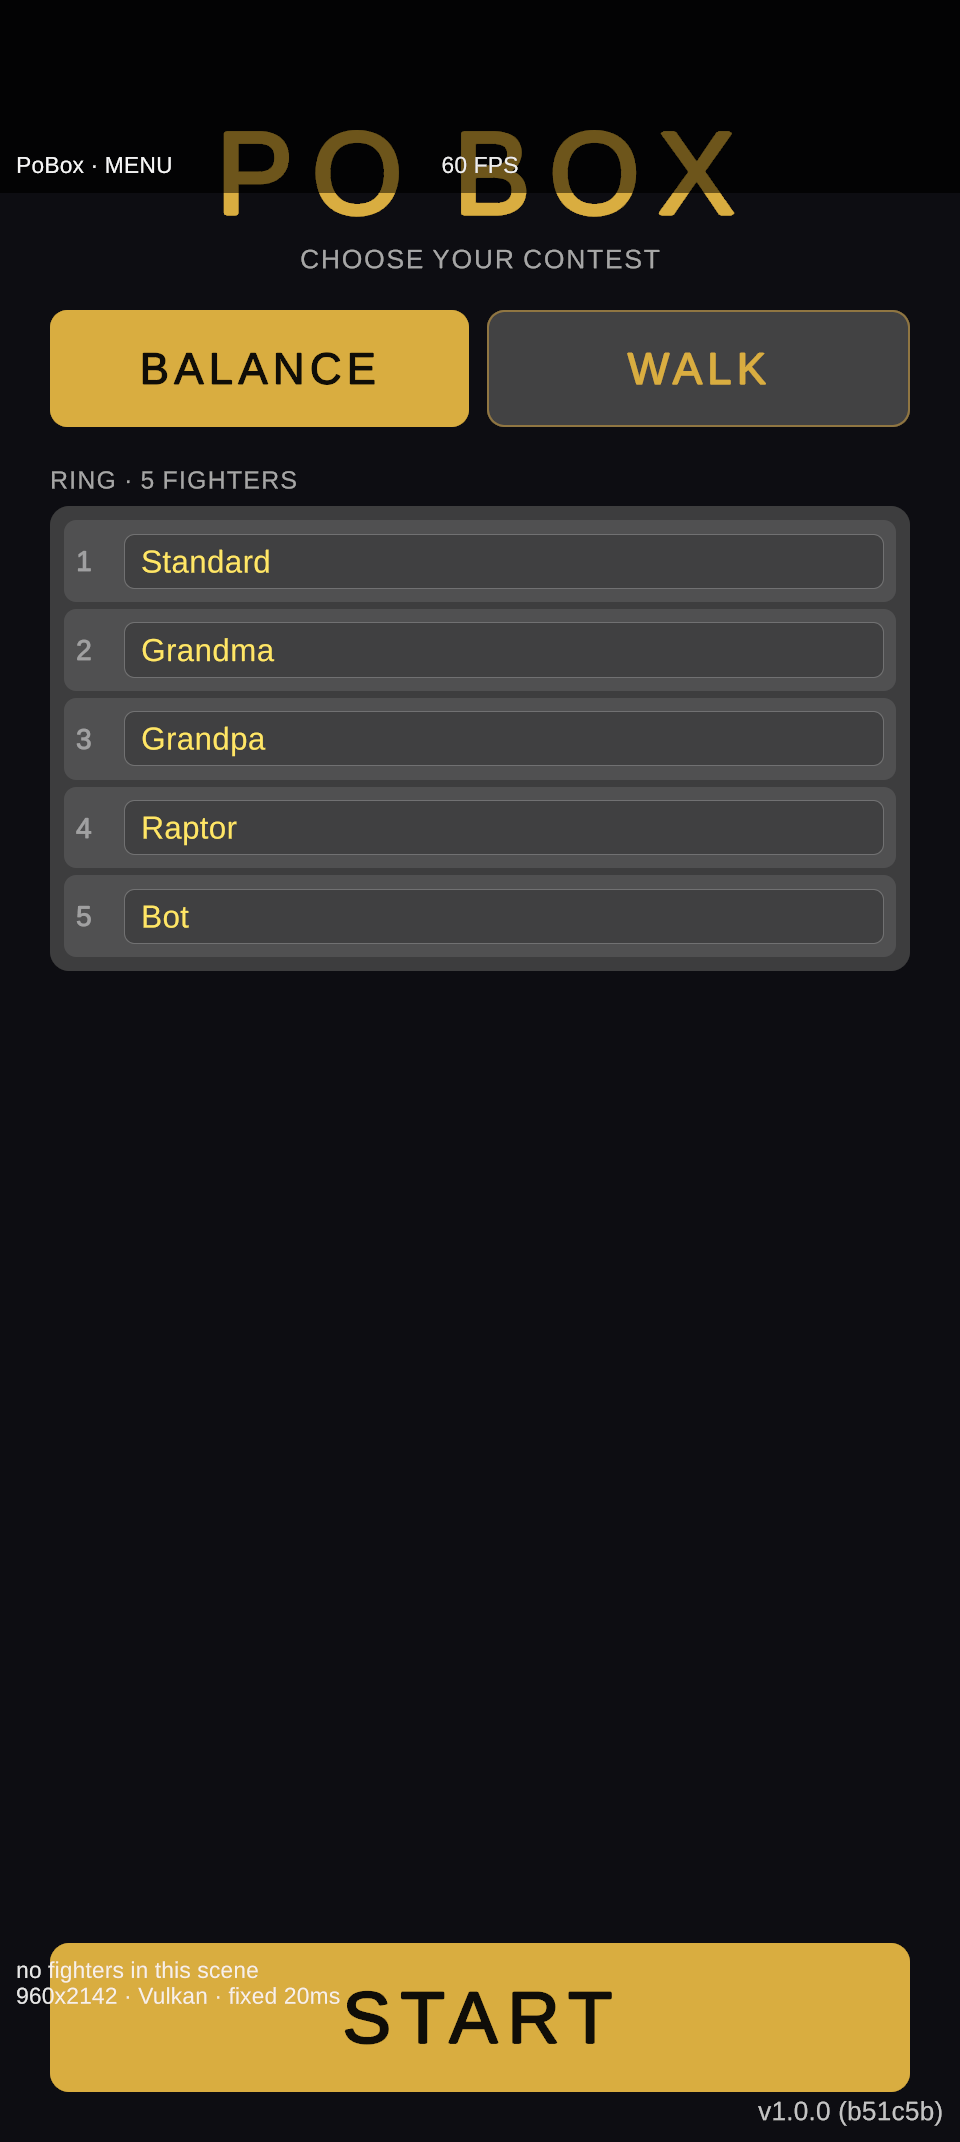
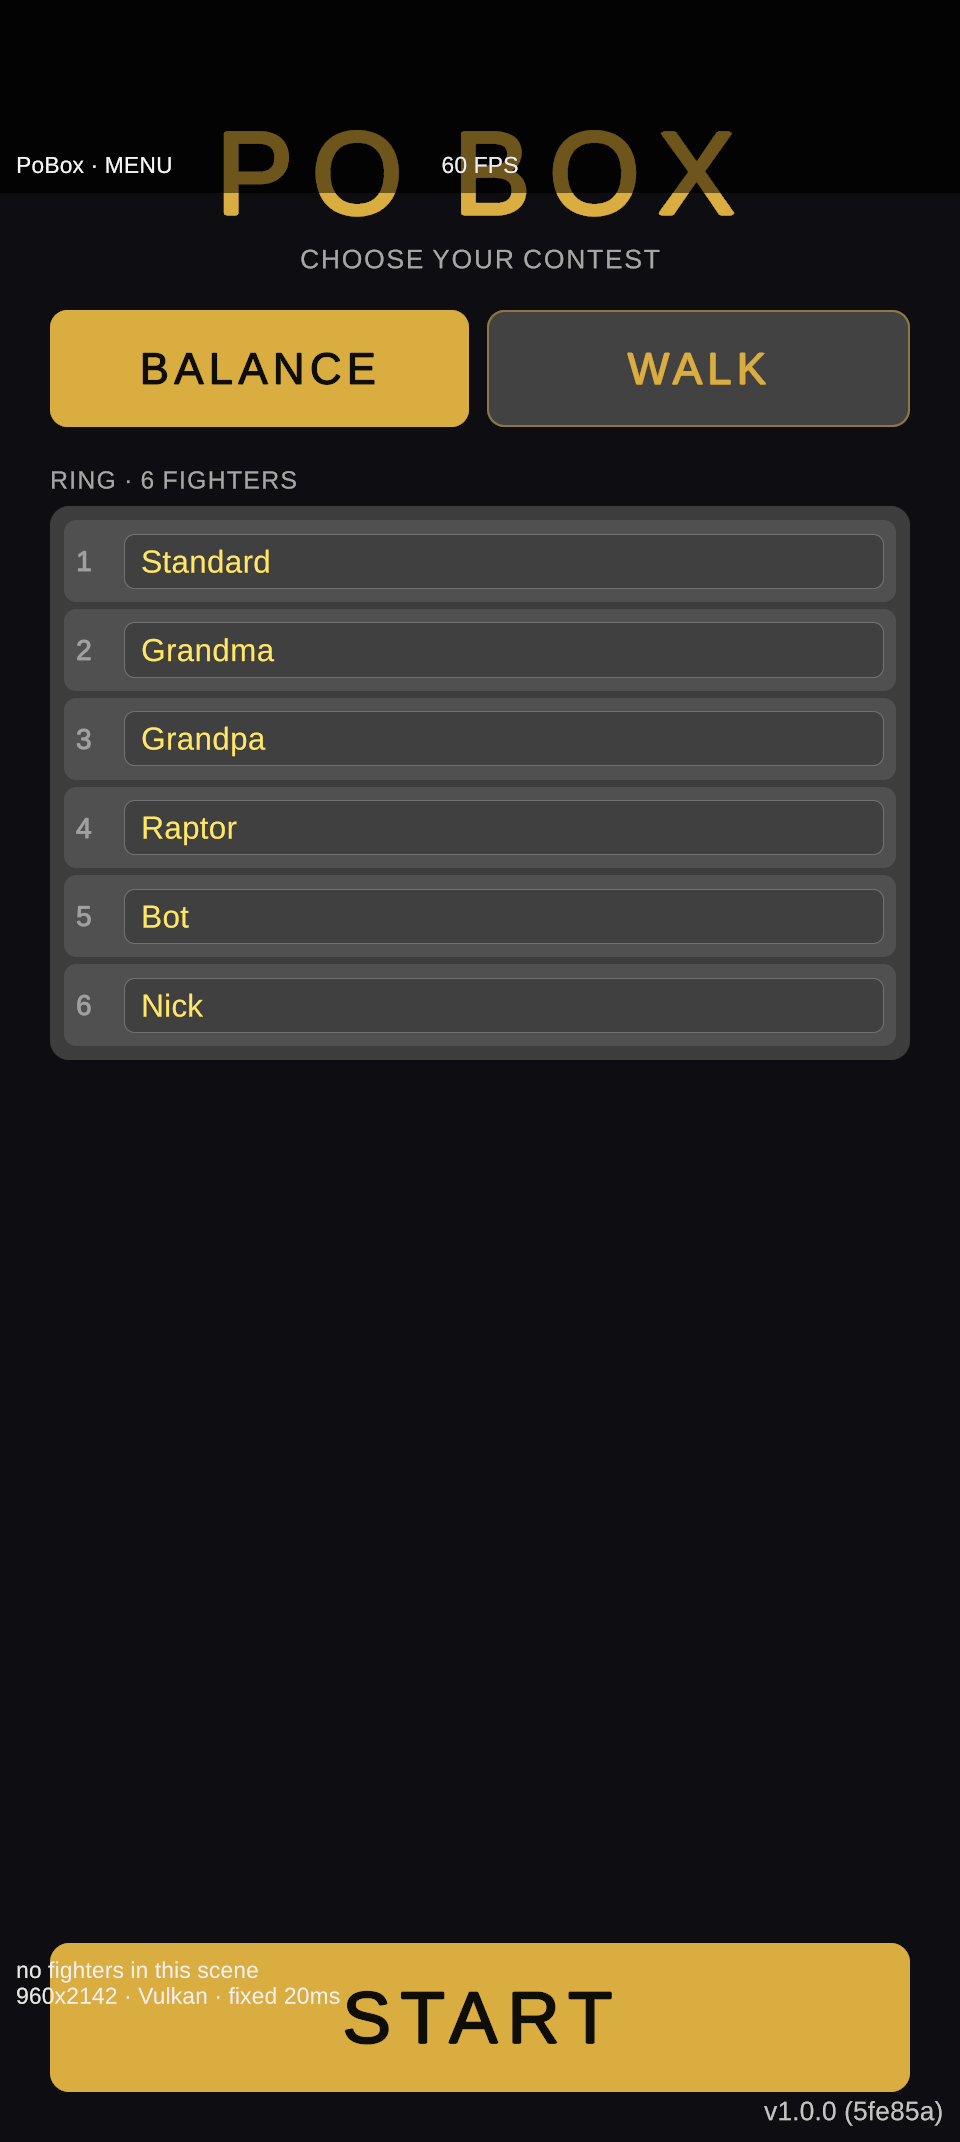
Menu roster matches the ring, and mujoco-bin does not fix Android
THE MENU WAS LYING ABOUT WHO IS FIGHTING. Both contest scenes field six:
five Systems_FighterRig (Standard, Grandma, Grandpa, Raptor, Bot) plus Nick,
who is refereed through IContestFighter from another assembly. The menu's
_fighterNames listed five and omitted him, so the ring advertised "5 FIGHTERS"
and Nick turned up on the scoreboard having never been offered -- and won.
WALK_SLOTS was 4 on top of that, so the start line advertised four racers for
a six-racer field. Now RING - 6 FIGHTERS and START LINE - 6 RACERS, verified
on the device.

The same reason Nick was missing from the list is the reason the scene sweep
misses him: anything that enumerates Systems_FighterRig does not see an
IContestFighter. SceneTool_SmokeTest already reports the two separately and
says why; this list did not.

MUJOCO ON ANDROID: TRIED, MEASURED, REVERTED. joanllobera/mujoco-bin ships an
arm64-v8a libmujoco.so and it does load -- nativeloader ok, and the 2,133
"Failed to create Mujoco runtime" exceptions per round went to zero. Then the
app segfaults about a second later: signal 11 (SIGSEGV), fault addr 0x0
(write), Unity main thread, inside managed code. The binary reports MuJoCo
3.3.7 -- read out of the .so, and matching neither the 3.5.0 its README claims
nor the 3.3.0 in its package.json -- against bindings pinned at
mjVERSION_HEADER = 3012000. Nine minor versions of mjModel/mjData layout drift
does not survive struct marshalling.
[…]

Changed region(s): [[0.0312, 0.4314, 0.9688, 0.493], [0.7812, 0.9552, 0.9375, 1.0]]

diff --git a/Assets/Scripts/Systems/Systems_MiniGameMenu.cs b/Assets/Scripts/Systems/Systems_MiniGameMenu.cs
@@ -21,12 +21,20 @@ namespace PoBox
     {
         private const string EMPTY_CHOICE = "Empty";
         private const int BALANCE_SLOTS = 8;
-        private const int WALK_SLOTS = 4;
+        // The walk race fields the same six as the ring. This was 4, so the
+        // start line advertised four racers and six ran.
+        private const int WALK_SLOTS = 6;
 
         [SerializeField] private Systems_MiniGameSelection _selection;
         // Names offered per slot, in the same order as the receiving scene's
         // spawner roster — the pick is sent across as that roster index.
-        [SerializeField] private string[] _fighterNames = { "Standard", "Grandma", "Grandpa", "Raptor", "Bot" };
+        // MUST MATCH THE FIGHTERS THE CONTEST SCENES ACTUALLY FIELD. Both
+        // SCN_TEST_*_CONTEST place five Systems_FighterRig plus Nick, who is
+        // refereed through IContestFighter from another assembly -- so a sweep
+        // that only looks at rigs does not see him, and this list did not
+        // either. The menu offered five fighters for a six-fighter ring and
+        // Nick appeared on the scoreboard having never been listed.
+        [SerializeField] private string[] _fighterNames = { "Standard", "Grandma", "Grandpa", "Raptor", "Bot", "Nick" };
         [SerializeField] private string _balanceScene = "SCN_TEST_BALANCE_CONTEST";
         [SerializeField] private string _walkScene = "SCN_TEST_WALK_CONTEST";
 

diff --git a/AGENTS.md b/AGENTS.md
@@ -85,7 +85,39 @@ the anatomy allows is not shippable, however good its reward curve looks.
 
 ## Android builds
 
-Compile for Android phones using **https://github.com/joanllobera/mujoco-bin/**.
+**MuJoCo does not currently run on Android in this project, and the obvious fix
+does not work.** Measured on a Pixel 9 Pro, 2026-09-09:
+
+- Without a native library the player throws `DllNotFoundException: Unable to
+  load DLL 'mujoco'` once per contest scene and then
+  `NullReferenceException: Failed to create Mujoco runtime` at
+  `MjScene.StepScene` **every physics tick** -- 2,133 of them in one 20 s
+  round. Nick does not simulate. He also cannot fall, so the referee declares
+  him the winner of every round. The Editor smoke test cannot see any of this,
+  because the Editor has `Assets/Plugins/mujoco.dll` and the phone does not.
+- **https://github.com/joanllobera/mujoco-bin/** ships an arm64-v8a
+  `libmujoco.so` and it loads (`nativeloader: ... ok`, zero DllNotFound), but
+  the binary is **MuJoCo 3.3.7** -- not the 3.5.0 its README claims nor the
+  3.3.0 in its package.json, both of which were read out of the binary itself.
+  This project's `Packages/org.mujoco` bindings are pinned at
+  `mjVERSION_HEADER = 3012000`. The app segfaults about a second after the
+  library loads: `signal 11 (SIGSEGV), fault addr 0x0 (write)` on the Unity
+  main thread, inside managed code. Nine minor versions of `mjModel`/`mjData`
+  layout drift is not survivable by struct marshalling.
+
+So there are two real options, and both are decisions rather than fixes:
+
+1. **Build MuJoCo 3.12.0 for Android from source** and keep the one-version
+   invariant the whole Nick line depends on (trainer and game on the same
+   engine version and the same MJCF). The fork the binaries above came from
+   documents the procedure.
+2. **Move the whole project to 3.3.7** -- plugin, Windows DLL and Android .so
+   together, which is what mujoco-bin's README actually instructs. This makes
+   Android work today and **breaks parity with the trainer**, which is
+   mujoco_warp 3.12.0. Nick's brains were trained against 3.12.0 physics.
+
+Do not install the 3.3.7 `.so` on its own. It turns a working app into a
+crash on launch, which is strictly worse than Nick standing still.
 
 ## Answering
 
